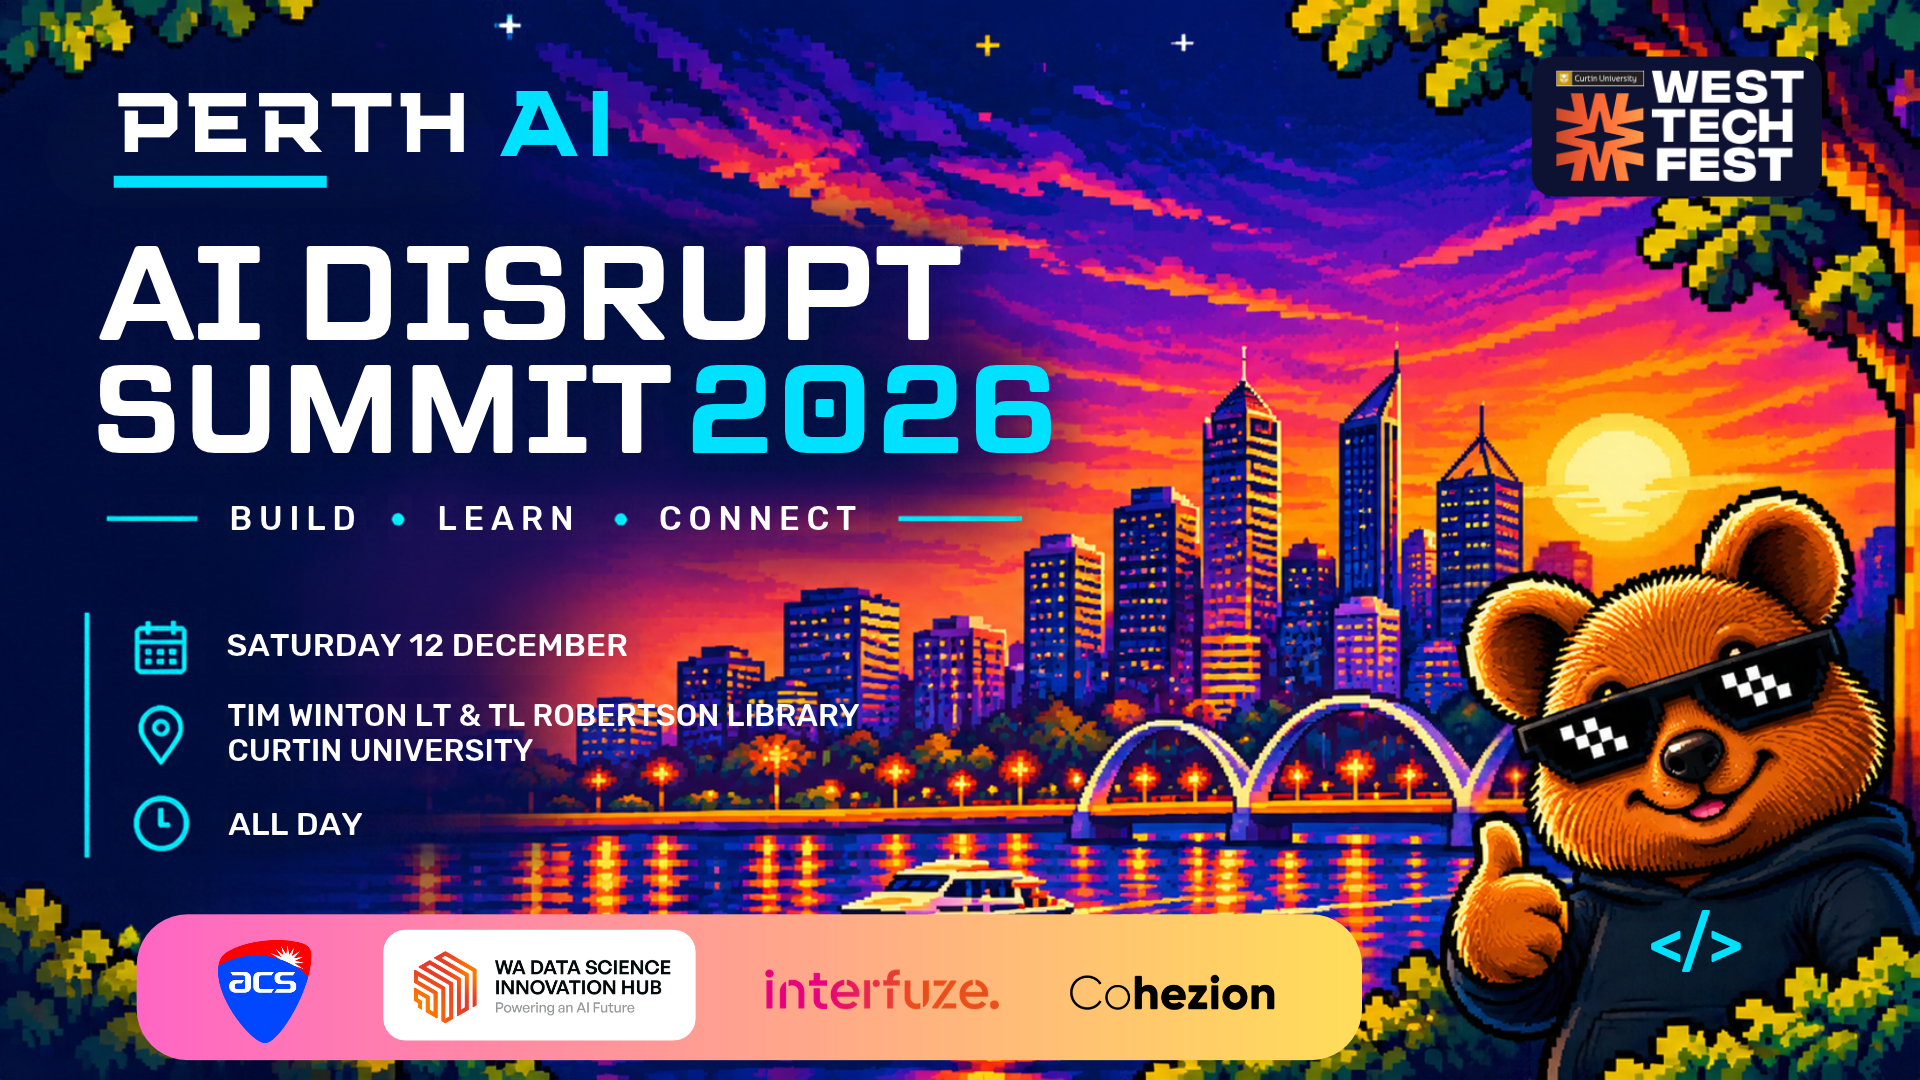
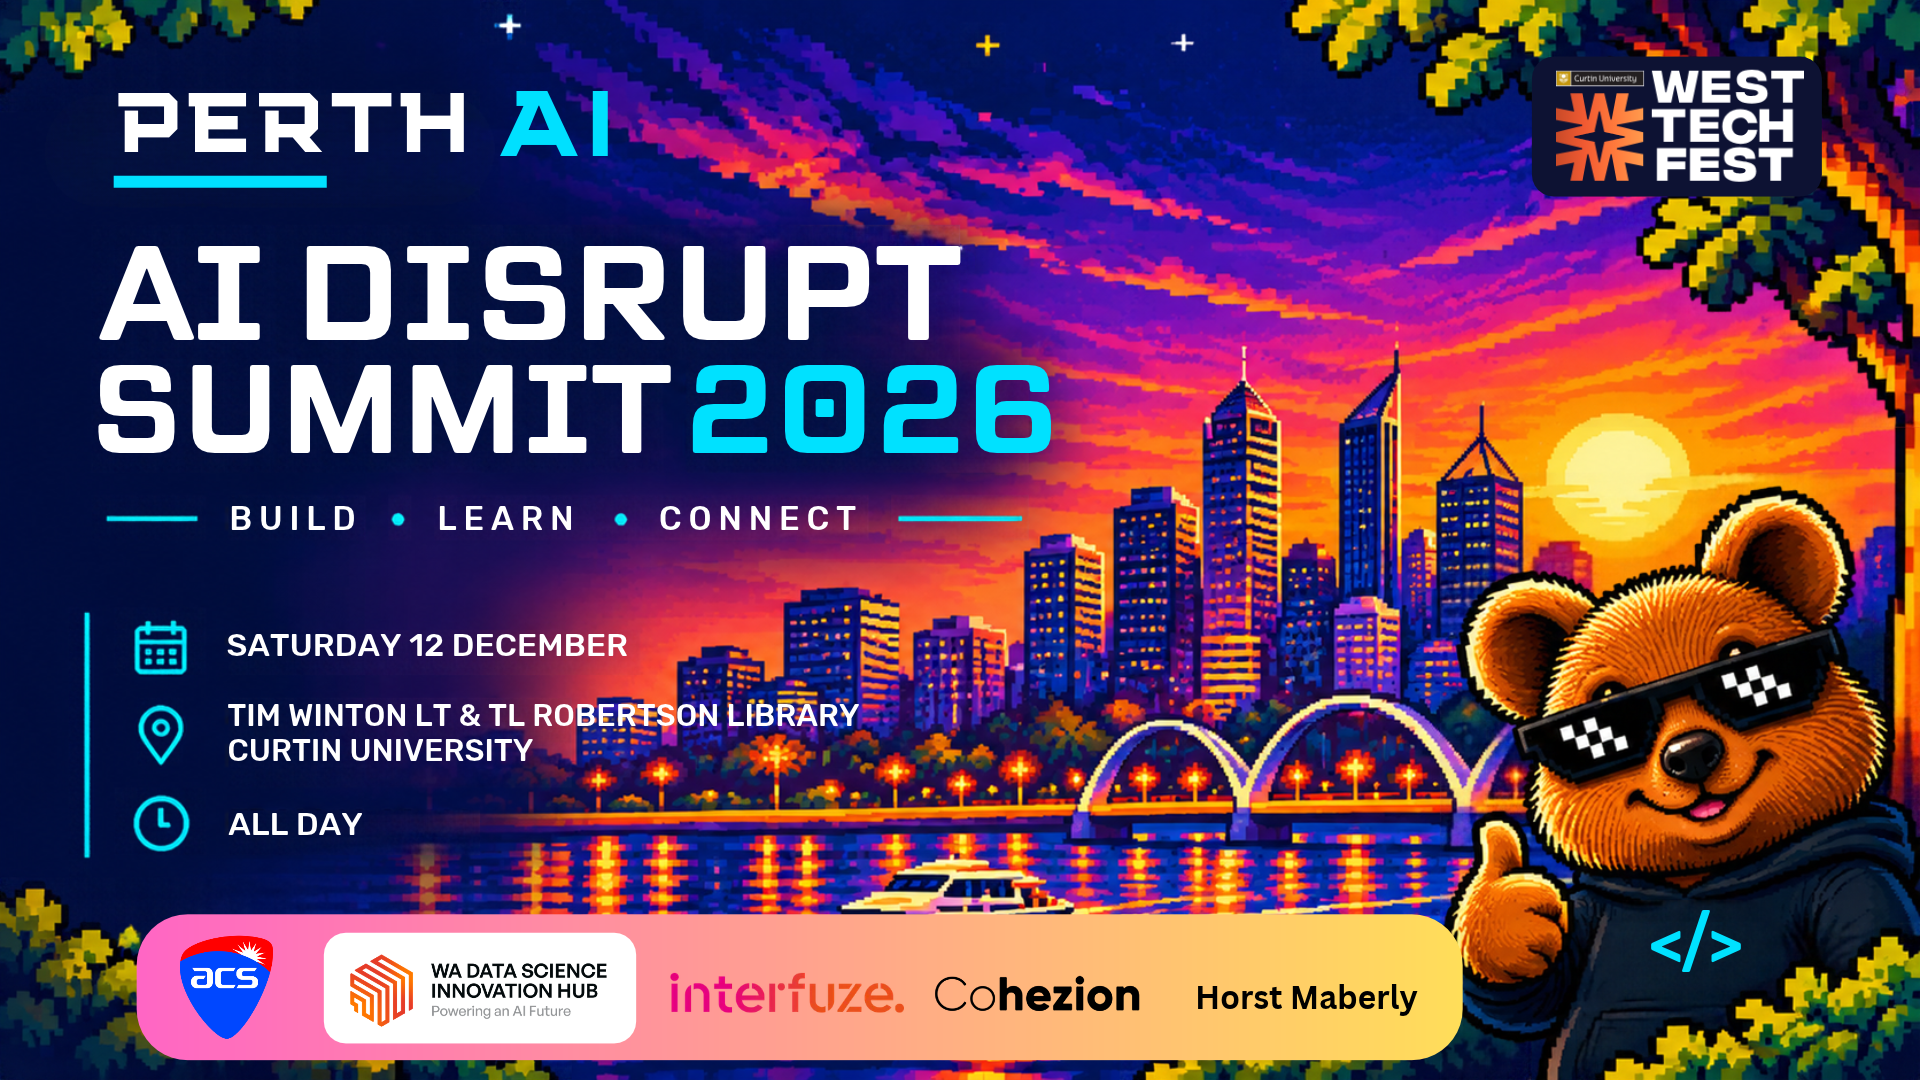
Summit 2026: add Horst Maberly as a sponsor, new hero tile
Agenda now has Speaker TBA in Marcus Holmes's 4:09 PM slot and Horst Maberly in the
sponsor welcome. Logo isn't linked yet: we don't have their website.

Changed region(s): [[0.0938, 0.825, 0.7812, 1.0]]

diff --git a/public/summit-2026/agenda/index.html b/public/summit-2026/agenda/index.html
@@ -450,7 +450,7 @@
 
     <div class="row solo">
       <div class="time">10:00 AM<span class="end">10 min</span></div>
-      <div class="break">👋 Welcome, Housekeeping &amp; Sponsor Message <span class="loc">— Perth AI and sponsors (Interfuze Consulting, Cohezion, ACS, WADSIH)</span></div>
+      <div class="break">👋 Welcome, Housekeeping &amp; Sponsor Message <span class="loc">— Perth AI and sponsors (Interfuze Consulting, Cohezion, ACS, WADSIH, Horst Maberly)</span></div>
     </div>
 
     <div class="row solo">
@@ -684,9 +684,9 @@
       </div>
       <div class="card impact" data-track="Business & Impact Track">
         <span class="tag lightning">Lightning Talk</span><span class="tag duration">~7 MIN</span>
-        <div class="speaker"><img class="agenda-photo" src="/images/2026/1212-disrupt-summit/speakers/marcus-holmes.webp" alt="" width="64" height="64"><a class="sp-link-name" id="agenda-marcus-holmes" href="/summit-2026/speakers#marcus-holmes">Marcus Holmes</a> <span class="dur">4:09–4:16 PM</span></div>
-        <div class="title">The Democratisation of Coding</div>
-        <p class="teaser">The explosion of software now being built by non-technical creators.</p>
+        <div class="speaker">Speaker TBA <span class="dur">4:09–4:16 PM</span></div>
+        <div class="title">Talk details to be confirmed</div>
+        <p class="teaser">More info coming soon — check back closer to the event.</p>
       </div>
       <div class="cont-card" data-track="Hackathon & Workshops">↳ Judging continues</div>
     </div>

diff --git a/public/summit-2026/sponsors/index.html b/public/summit-2026/sponsors/index.html
@@ -244,9 +244,15 @@
       <p class="sponsor-name">Cohezion</p>
     </li>
 
+    <li class="sponsor">
+      <!-- TODO: wrap in a sponsor-logo-link once we have Horst Maberly's website. -->
+      <div class="sponsor-logo"><img src="/images/2026/1212-disrupt-summit/sponsors/horst-maberly-logo.webp" alt="Horst Maberly logo" width="442" height="81" style="max-width:75%"></div>
+      <p class="sponsor-name">Horst Maberly</p>
+    </li>
+
   </ul>
 
-  <p class="thanks">Thank you to all four for making the day possible. Interested in sponsoring a future Perth AI event? See <a href="/sponsor">sponsorship</a>.</p>
+  <p class="thanks">Thank you to all five for making the day possible. Interested in sponsoring a future Perth AI event? See <a href="/sponsor">sponsorship</a>.</p>
 
   <footer>
     See the <a href="/summit-2026/agenda" style="color:var(--purple);font-weight:700">agenda</a> and <a href="/summit-2026/speakers" style="color:var(--purple);font-weight:700">speaker line-up</a>.

diff --git a/public/summit-2026/info/index.html b/public/summit-2026/info/index.html
@@ -551,7 +551,7 @@
 <section class="card accent-azure" id="sponsors">
   <h2><span class="icon">🤝</span> Sponsors</h2>
   <p class="section-sub">On-the-day volunteers looking after sponsors: TBC</p>
-  <p><strong>Our sponsors:</strong> WADSIH, ACS, Interfuze Consulting, Cohezion.</p>
+  <p><strong>Our sponsors:</strong> WADSIH, ACS, Interfuze Consulting, Cohezion, Horst Maberly.</p>
   <p>Please feel free to bring your banners, flyers, merch and other marketing collateral and we will happily display them for you in the expo area.</p>
 </section>
 
